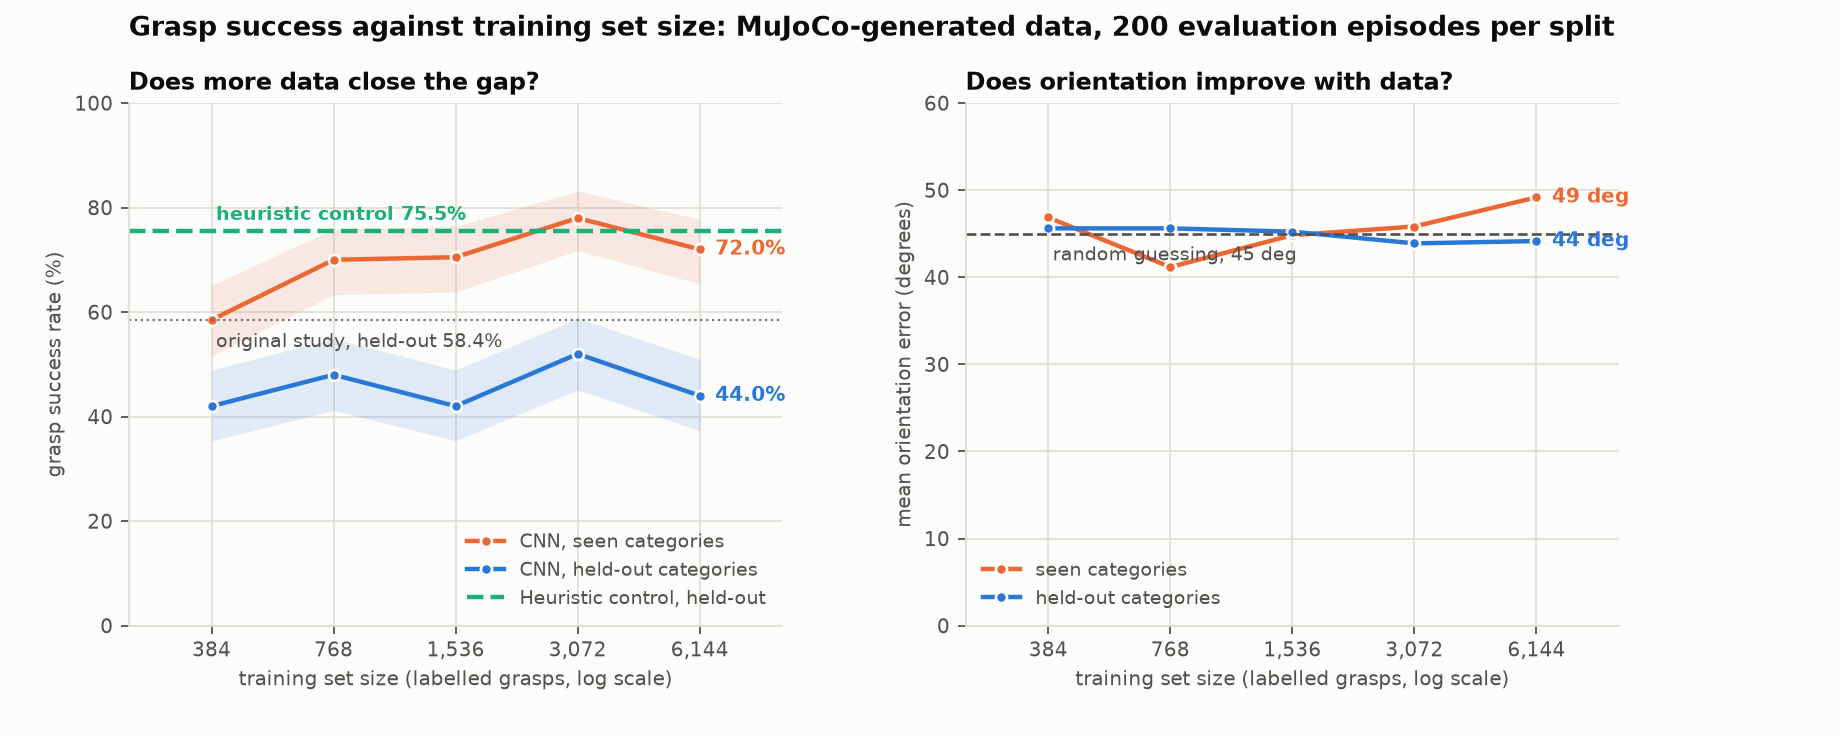
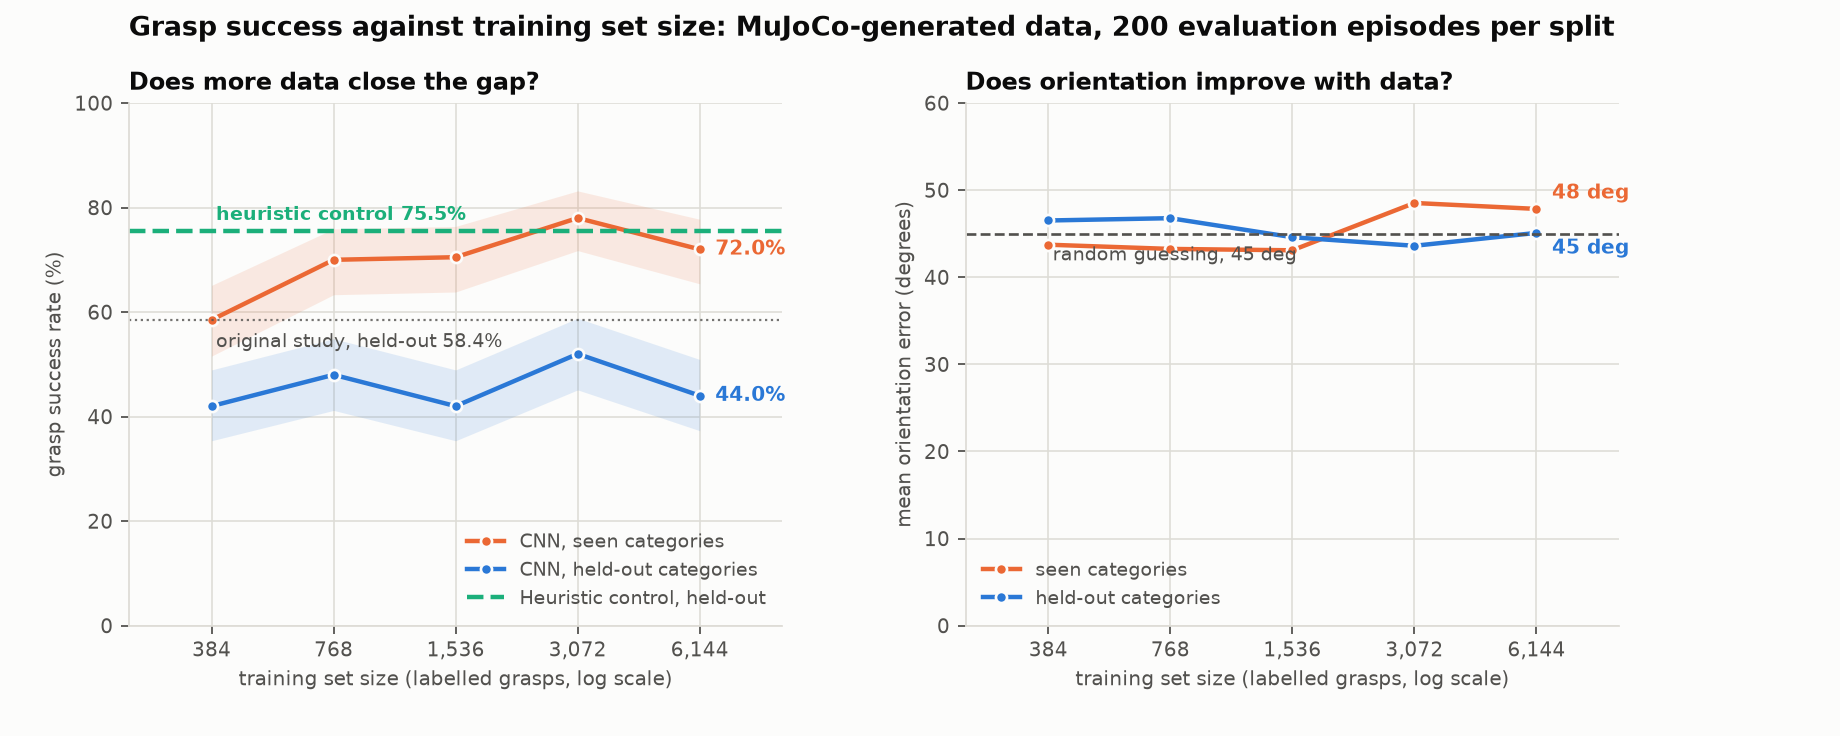
Re-measure orientation at four times the sample count, and republish
The first pass scored orientation on 10 episodes per category, which after the
determinacy filter leaves 15 grasps on the seen split. On that basis the seen
orientation error wandered by three degrees between adjacent points, which is
the measurement moving rather than the model. Orientation is the question this
project exists to answer, so it is not the number to economise on. Re-run at 40
episodes per category against the same checkpoints: 59 seen and 167 held-out
grasps per point. The default is raised accordingly, at about 570 seconds per
point on a CPU.

The result is cleaner and says more:

  samples   seen   held-out   bin spread
      384   43.7       46.5        0.413
      768   43.2       46.8        0.165
    1,536   43.1       44.6        0.076
    3,072   48.5       43.6        0.088
    6,144   47.8       45.1        0.046

Random guessing scores 45 degrees. Neither split leaves that neighbourhood at
any training set size, and seen categories end worse than they started.

The bin spread is the sharper number: the range of predicted grasp quality
across the twelve gripper angles at the pixel the network chose. It falls from
0.41 to 0.05. The first value is an undertrained network's noise rather than
real angle sensitivity, so the reading is that the quality estimate becomes
progressively less sensitive to gripper orientation as data grows, settling near
the 0.070 the original measured at roughly 27,000 samples. Predicting the
[…]

Changed region(s): [[0.5576, 0.25, 0.8984, 0.375]]

diff --git a/scripts/make_report.py b/scripts/make_report.py
@@ -21,7 +21,7 @@ sys.path.insert(0, str(Path(__file__).resolve().parents[1] / "src"))
 # The predecessor study's published held-out numbers.
 ORIGINAL = {"cnn_unseen": 0.584, "heuristic_unseen": 0.753,
             "cnn_seen": 0.838, "heuristic_seen": 0.883,
-            "angle_heldout_deg": 47.2}
+            "angle_heldout_deg": 47.2, "bin_spread": 0.070}
 
 BACKEND_NAMES = {"mujoco": "MuJoCo", "isaac": "Isaac Lab"}
 
@@ -218,7 +218,23 @@ def readme_block(result: dict, figure: str | None) -> str:
         "",
         f"Orientation error on held-out shapes stayed within "
         f"{max(abs(p['angle']['angle_error_deg_heldout'] - 45.0) for p in points):.1f} "
-        "degrees of the 45 that random guessing scores, at every size measured.",
+        f"degrees of the 45 that random guessing scores, at every size measured, and on "
+        f"seen categories it did not improve either "
+        f"({points[0]['angle']['angle_error_deg_seen']:.1f} degrees at the smallest size, "
+        f"{last['angle']['angle_error_deg_seen']:.1f} at the largest). Scored on "
+        f"{last['angle']['n_seen']} seen and {last['angle']['n_heldout']} held-out grasps "
+        "per point, over the elongated objects where an angle is determinate at all.",
+        "",
+        f"The sharper measurement is the **bin spread**: the range of predicted grasp "
+        f"quality across the twelve gripper angles at the pixel the network chose. It "
+        f"falls from {points[0]['angle']['bin_spread']:.2f} to "
+        f"{last['angle']['bin_spread']:.2f} across the curve. The first value is an "
+        f"undertrained network's noise rather than real angle sensitivity, so the reading "
+        f"is that the network's quality estimate becomes progressively **less** sensitive "
+        f"to how the gripper is turned as it sees more data, settling near the "
+        f"{ORIGINAL['bin_spread']:.3f} the original measured at roughly 27,000 samples. "
+        "Predicting the angle-marginal success rate is a minimum of this loss, and more "
+        "data finds it more reliably.",
         "",
         "### What this arm does not settle",
         "",

diff --git a/src/isaacgrasp/scaling.py b/src/isaacgrasp/scaling.py
@@ -68,8 +68,15 @@ class ScalingConfig:
     eval_workers: int = 4
     eval_offset: int = EVAL_EPISODE_OFFSET
     # Orientation measurement. Episodes per category, so the total is nine times
-    # this before the determinacy filter.
-    angle_episodes: int = 10
+    # this before the determinacy filter removes the rotationally symmetric ones.
+    #
+    # 40 rather than the upstream script's 10. At 10, the filter leaves 15 scored
+    # samples on the seen split, and the first pass of this curve produced a seen
+    # orientation error that wandered by three degrees between adjacent points on
+    # that basis alone. Orientation is the question this project exists to answer,
+    # so it is not the number to economise on: 40 gives 59 seen and 167 held-out,
+    # at roughly 570 seconds per point on a CPU.
+    angle_episodes: int = 40
     # The control. Re-run once, not per point, because it has no training data.
     controls: tuple[str, ...] = ("heuristic",)
     label: str = ""

diff --git a/scripts/run_scaling.py b/scripts/run_scaling.py
@@ -42,7 +42,9 @@ def main() -> int:
     parser.add_argument("--seed", type=int, default=0)
     parser.add_argument("--eval-episodes", type=int, default=200)
     parser.add_argument("--eval-workers", type=int, default=4)
-    parser.add_argument("--angle-episodes", type=int, default=10)
+    parser.add_argument("--angle-episodes", type=int, default=40,
+                        help="episodes per category for the orientation metric. "
+                             "Below about 40 the seen split is too thin to read")
     parser.add_argument("--label", default="")
     args = parser.parse_args()
 

diff --git a/README.md b/README.md
@@ -43,11 +43,11 @@ Same architecture, same training loop, 12 epochs at 112 px at every point. Train
 
 | training scenes | labelled grasps | seen | held-out | gap | angle error (held-out) |
 |---|---|---|---|---|---|
-| 128 | 384 | 58.5% | 42.0% | 16.5 pp | 45.6 deg |
-| 256 | 768 | 70.0% | 48.0% | 22.0 pp | 45.6 deg |
-| 512 | 1,536 | 70.5% | 42.0% | 28.5 pp | 45.2 deg |
-| 1,024 | 3,072 | 78.0% | 52.0% | 26.0 pp | 43.9 deg |
-| 2,048 | 6,144 | 72.0% | 44.0% | 28.0 pp | 44.2 deg |
+| 128 | 384 | 58.5% | 42.0% | 16.5 pp | 46.5 deg |
+| 256 | 768 | 70.0% | 48.0% | 22.0 pp | 46.8 deg |
+| 512 | 1,536 | 70.5% | 42.0% | 28.5 pp | 44.6 deg |
+| 1,024 | 3,072 | 78.0% | 52.0% | 26.0 pp | 43.6 deg |
+| 2,048 | 6,144 | 72.0% | 44.0% | 28.0 pp | 45.1 deg |
 
 n = 200 evaluation episodes per split, on the original held-out scenes. The 95% intervals are about plus or minus 7 points, so adjacent points are not individually distinguishable; the trend is the readable part.
 
@@ -59,11 +59,13 @@ Over a 16x range in training data, fitting rate against log2(samples):
 |---|---|---|
 | Seen-category success | +3.50 pp | 0.61 |
 | Held-out success | +0.80 pp | 0.09 |
-| Held-out orientation error | -0.46 deg | 0.80 |
+| Held-out orientation error | -0.60 deg | 0.51 |
 
 Seen-category success rises. Held-out success does not resolve: the fitted slope explains 9% of the scatter, so over this range it is not distinguishable from flat. It moved from 42.0% to 44.0% against the heuristic's 75.5%, and the gap between seen and held-out went from 16.5 to 28.0 points.
 
-Orientation error on held-out shapes stayed within 1.1 degrees of the 45 that random guessing scores, at every size measured.
+Orientation error on held-out shapes stayed within 1.8 degrees of the 45 that random guessing scores, at every size measured, and on seen categories it did not improve either (43.7 degrees at the smallest size, 47.8 at the largest). Scored on 59 seen and 167 held-out grasps per point, over the elongated objects where an angle is determinate at all.
+
+The sharper measurement is the **bin spread**: the range of predicted grasp quality across the twelve gripper angles at the pixel the network chose. It falls from 0.41 to 0.05 across the curve. The first value is an undertrained network's noise rather than real angle sensitivity, so the reading is that the network's quality estimate becomes progressively **less** sensitive to how the gripper is turned as it sees more data, settling near the 0.070 the original measured at roughly 27,000 samples. Predicting the angle-marginal success rate is a minimum of this loss, and more data finds it more reliably.
 
 ### What this arm does not settle
 

diff --git a/docs/results.md b/docs/results.md
@@ -2,7 +2,7 @@
 
 Generated by `python scripts/make_report.py`. Every number here is read from a committed artefact under `results/`; none is typed by hand.
 
-Generated 2026-09-07 09:59 UTC.
+Generated 2026-09-07 10:14 UTC.
 
 ## The MuJoCo arm
 
@@ -21,11 +21,11 @@ Re-run unchanged. It does not depend on training data, so it should reproduce th
 
 | training scenes | labelled grasps | seen | held-out | gap | angle error (held-out) |
 |---|---|---|---|---|---|
-| 128 | 384 | 58.5% | 42.0% | 16.5 pp | 45.6 deg |
-| 256 | 768 | 70.0% | 48.0% | 22.0 pp | 45.6 deg |
-| 512 | 1,536 | 70.5% | 42.0% | 28.5 pp | 45.2 deg |
-| 1,024 | 3,072 | 78.0% | 52.0% | 26.0 pp | 43.9 deg |
-| 2,048 | 6,144 | 72.0% | 44.0% | 28.0 pp | 44.2 deg |
+| 128 | 384 | 58.5% | 42.0% | 16.5 pp | 46.5 deg |
+| 256 | 768 | 70.0% | 48.0% | 22.0 pp | 46.8 deg |
+| 512 | 1,536 | 70.5% | 42.0% | 28.5 pp | 44.6 deg |
+| 1,024 | 3,072 | 78.0% | 52.0% | 26.0 pp | 43.6 deg |
+| 2,048 | 6,144 | 72.0% | 44.0% | 28.0 pp | 45.1 deg |
 
 Random guessing scores 45 degrees of orientation error. The original study measured 47.2 degrees on held-out categories, which is worse than chance.
 
